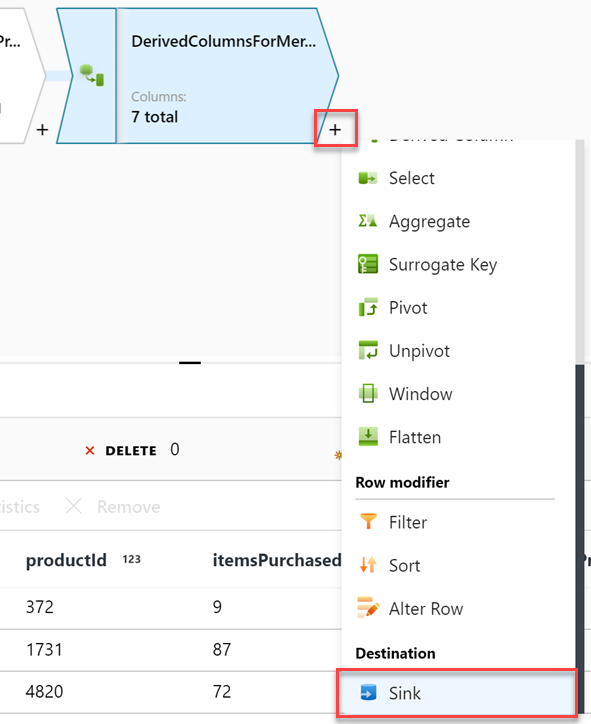
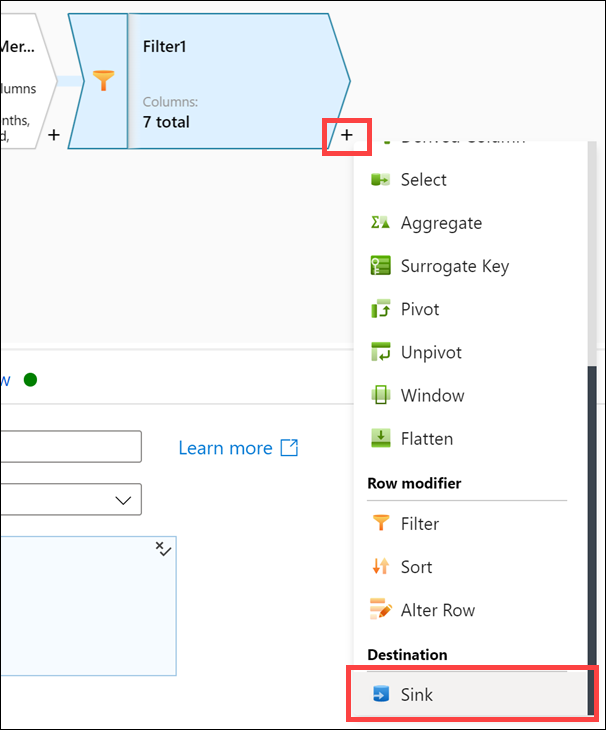
Fix for null values

diff --git a/day-01/lab02-data-integration-part-2.md b/day-01/lab02-data-integration-part-2.md
@@ -751,21 +751,31 @@ The query results output includes the standard Table view, as well as a Chart vi
 
     ![The data preview is displayed.](media/data-flow-user-profiles-derived-column3-preview.png "Data preview")
 
-20. Select the **+** to the right of the `DerivedColumnsForMerge` step, then select the **Sink** destination from the context menu.
+20. Select the **+** to the right of the `DerivedColumnsForMerge` step, then select the **Filter** destination from the context menu.
+
+    ![The new Filter destination is highlighted.](media/data-flow-user-profiles-new-filter.png "New filter")
+
+    We are adding the Filter step to remove any records where the `ProductId` is null. The data sets have a small percentage of invalid records, and null `ProductId` values will cause errors when loading into the `UserTopProductPurchases` SQL pool table.
+
+21. Set the **Filter on** expression to **`!isNull(productId)`**.
+
+    ![The filter settings are shown.](media/data-flow-user-profiles-new-filter-settings.png "Filter settings")
+
+22. Select the **+** to the right of the `Filter1` step, then select the **Sink** destination from the context menu.
 
     ![The new Sink destination is highlighted.](media/data-flow-user-profiles-new-sink.png "New sink")
 
-21. Under **Sink**, configure the following:
+23. Under **Sink**, configure the following:
 
     - **Output stream name**: Enter `UserTopProductPurchasesASA`.
-    - **Incoming stream**: Select `DerivedColumnsForMerge`.
+    - **Incoming stream**: Select `Filter1`.
     - **Sink type**: Select `Dataset`.
     - **Dataset**: Select `asal400_wwi_usertopproductpurchases_asa`, which is the UserTopProductPurchases SQL table.
     - **Options**: Check `Allow schema drift` and uncheck `Validate schema`.
 
     ![The sink settings are shown.](media/data-flow-user-profiles-new-sink-settings.png "Sink settings")
 
-22. Select **Settings**, then configure the following:
+24. Select **Settings**, then configure the following:
 
     - **Update method**: Check `Allow insert` and leave the rest unchecked.
     - **Table action**: Select `Truncate table`.
@@ -773,7 +783,7 @@ The query results output includes the standard Table view, as well as a Chart vi
 
     ![The settings are shown.](media/data-flow-user-profiles-new-sink-settings-options.png "Settings")
 
-23. Select **Mapping**, then configure the following:
+25. Select **Mapping**, then configure the following:
 
     - **Auto mapping**: `Uncheck` this option.
     - **Columns**: Provide the following information:
@@ -788,11 +798,11 @@ The query results output includes the standard Table view, as well as a Chart vi
 
     ![The mapping settings are configured as described.](media/data-flow-user-profiles-new-sink-settings-mapping.png "Mapping")
 
-24. Your completed data flow should look similar to the following:
+26. Your completed data flow should look similar to the following:
 
     ![The completed data flow is displayed.](media/data-flow-user-profiles-complete.png "Completed data flow")
 
-25. Select **Publish all** to save your new data flow.
+27. Select **Publish all** to save your new data flow.
 
     ![Publish all is highlighted.](media/publish-all-1.png "Publish all")
 
